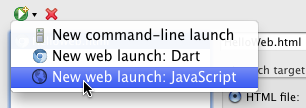
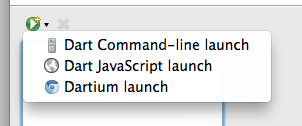
fixes to launch config
BUG=
TEST=

Review URL: https://chromiumcodereview.appspot.com/10790004

diff --git a/src/site/docs/editor/index.html b/src/site/docs/editor/index.html
@@ -713,12 +713,12 @@ in which the your app runs:
     click the Create new launch button
     <img src="images/run-create.png" alt="" width="16" height="16"
       style="vertical-align:top">,
-    and choose <b>New web launch: JavaScript</b>.
+    and choose <b>Dart JavaScript launch</b>.
     <p>
       <img src="images/new-web-launch-menu.png"
         alt="screenshot of Create new launch menu"
        style="border: 1px solid black"
-        width="" height="">
+        width="302" height="126">
     </p>
   </li>
   <li>
